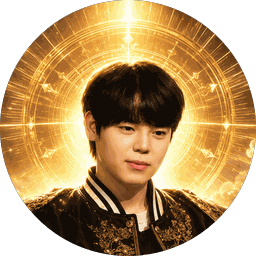
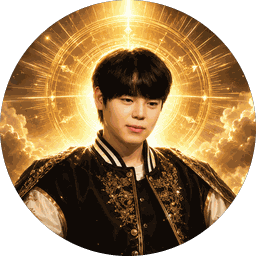
fix: widen guild emblem crops to include the torso
Both emblems were cropped tight on the face, which read as a headshot rather
than a guild crest — the throne and halo on ilsin and the armour and shield on
chiri were cut away entirely.

Crops widen to roughly 1000px of the 1254px source so head and upper body both
fit. File size is unchanged at ~26KB each.

Emblem paths now carry a version query. Replacing an image under the same
filename otherwise leaves everyone looking at the cached old crop; bump
EMBLEM_ASSET_VERSION whenever an asset is regenerated.

diff --git a/tests/renewal-guild.test.js b/tests/renewal-guild.test.js
@@ -291,8 +291,13 @@ console.log('renewal guild M2 tests passed: 10 levels, GP trigger, daily cap, bu
 // 마크업 경로가 살아 있는지와 사용자 입력 이스케이프가 유지되는지 함께 잠근다.
 const emblemSource = await readFile(new URL('../src/renewal/guild-emblem.js', import.meta.url), 'utf8');
 assert.match(emblemSource, /EMBLEM_IMAGES/, '이미지 엠블럼 화이트리스트가 있어야 한다');
-assert.match(emblemSource, /ilsin: 'assets\/renewal\/guild\/emblems\/ilsin\.png'/);
-assert.match(emblemSource, /chiri: 'assets\/renewal\/guild\/emblems\/chiri\.png'/);
+assert.match(emblemSource, /ilsin: `assets\/renewal\/guild\/emblems\/ilsin\.png\?v=/);
+assert.match(emblemSource, /chiri: `assets\/renewal\/guild\/emblems\/chiri\.png\?v=/);
+assert.match(
+  emblemSource,
+  /EMBLEM_ASSET_VERSION/,
+  '파일명을 유지한 채 이미지를 교체하면 캐시 때문에 옛 크롭이 계속 보인다',
+);
 
 const guildControllerSource = await readFile(new URL('../src/renewal/guild-controller.js', import.meta.url), 'utf8');
 assert.match(

diff --git a/src/renewal/guild-emblem.js b/src/renewal/guild-emblem.js
@@ -9,9 +9,13 @@ export const EMBLEM_GLYPHS = Object.freeze({
 // 이미지 에셋이 있는 커스텀 엠블럼(PDB-16 7.2). 키가 여기 있으면 이모지 대신 이미지를 쓴다.
 // 새 엠블럼을 추가할 때는 assets/renewal/guild/emblems/<key>.png(256x256) 배치 +
 // gacha_s2_guild_emblems 행 삽입 + 여기 한 줄이면 된다.
+// 파일명을 그대로 두고 이미지를 교체하면(크롭 조정 등) 브라우저가 옛 파일을 계속 쓴다.
+// 그래서 경로에 버전을 붙인다. 이미지를 새로 만들 때마다 이 값을 올릴 것.
+const EMBLEM_ASSET_VERSION = '202607260110';
+
 export const EMBLEM_IMAGES = Object.freeze({
-  ilsin: 'assets/renewal/guild/emblems/ilsin.png',
-  chiri: 'assets/renewal/guild/emblems/chiri.png',
+  ilsin: `assets/renewal/guild/emblems/ilsin.png?v=${EMBLEM_ASSET_VERSION}`,
+  chiri: `assets/renewal/guild/emblems/chiri.png?v=${EMBLEM_ASSET_VERSION}`,
 });
 
 // textContent 로 넣는 자리에서 쓰는 문자 표현. 이미지 엠블럼도 텍스트 문맥에서는 기호로 대체된다.

diff --git a/index.html b/index.html
@@ -8,7 +8,7 @@
   <link rel="icon" type="image/png" sizes="32x32" href="assets/renewal/brand/card-gacha-s2-favicon-32.png">
   <link rel="apple-touch-icon" sizes="192x192" href="assets/renewal/brand/card-gacha-s2-icon-192.png">
   <link rel="stylesheet" href="styles/renewal/tokens.css">
-  <link rel="stylesheet" href="styles/renewal/main.css?v=202607260040">
+  <link rel="stylesheet" href="styles/renewal/main.css?v=202607260110">
   <script src="https://unpkg.com/lucide@0.468.0/dist/umd/lucide.min.js" defer></script>
 </head>
 <body>
@@ -785,6 +785,6 @@
   </dialog>
 
   <script src="runtime-config.js?v=4"></script>
-  <script type="module" src="src/renewal/app.js?v=202607260040"></script>
+  <script type="module" src="src/renewal/app.js?v=202607260110"></script>
 </body>
 </html>
